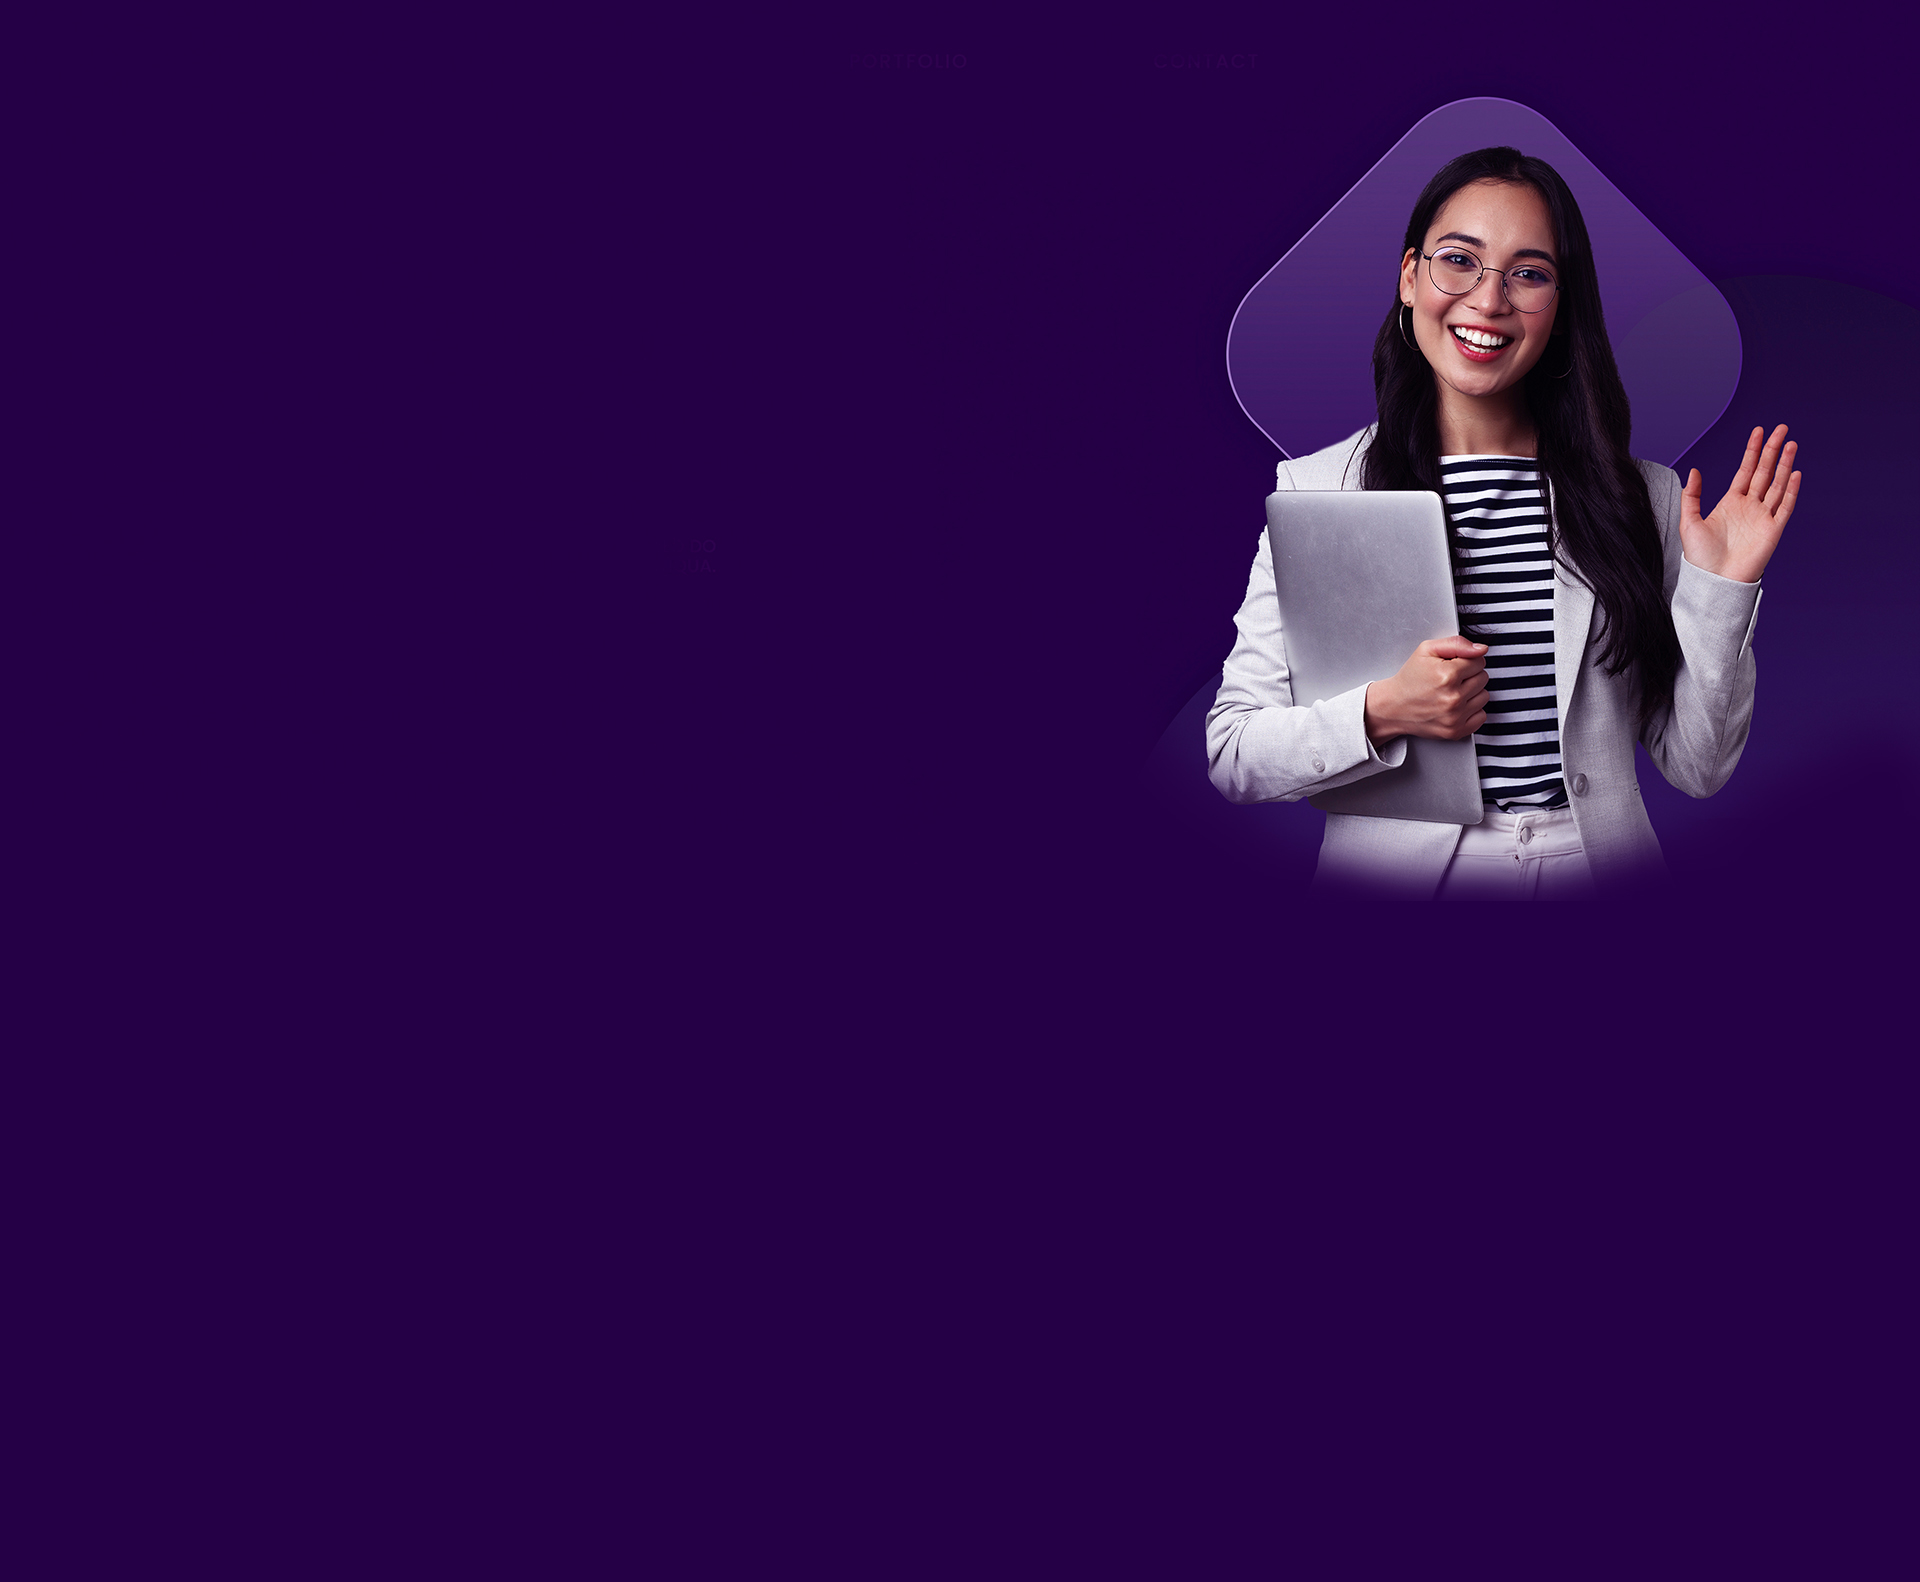
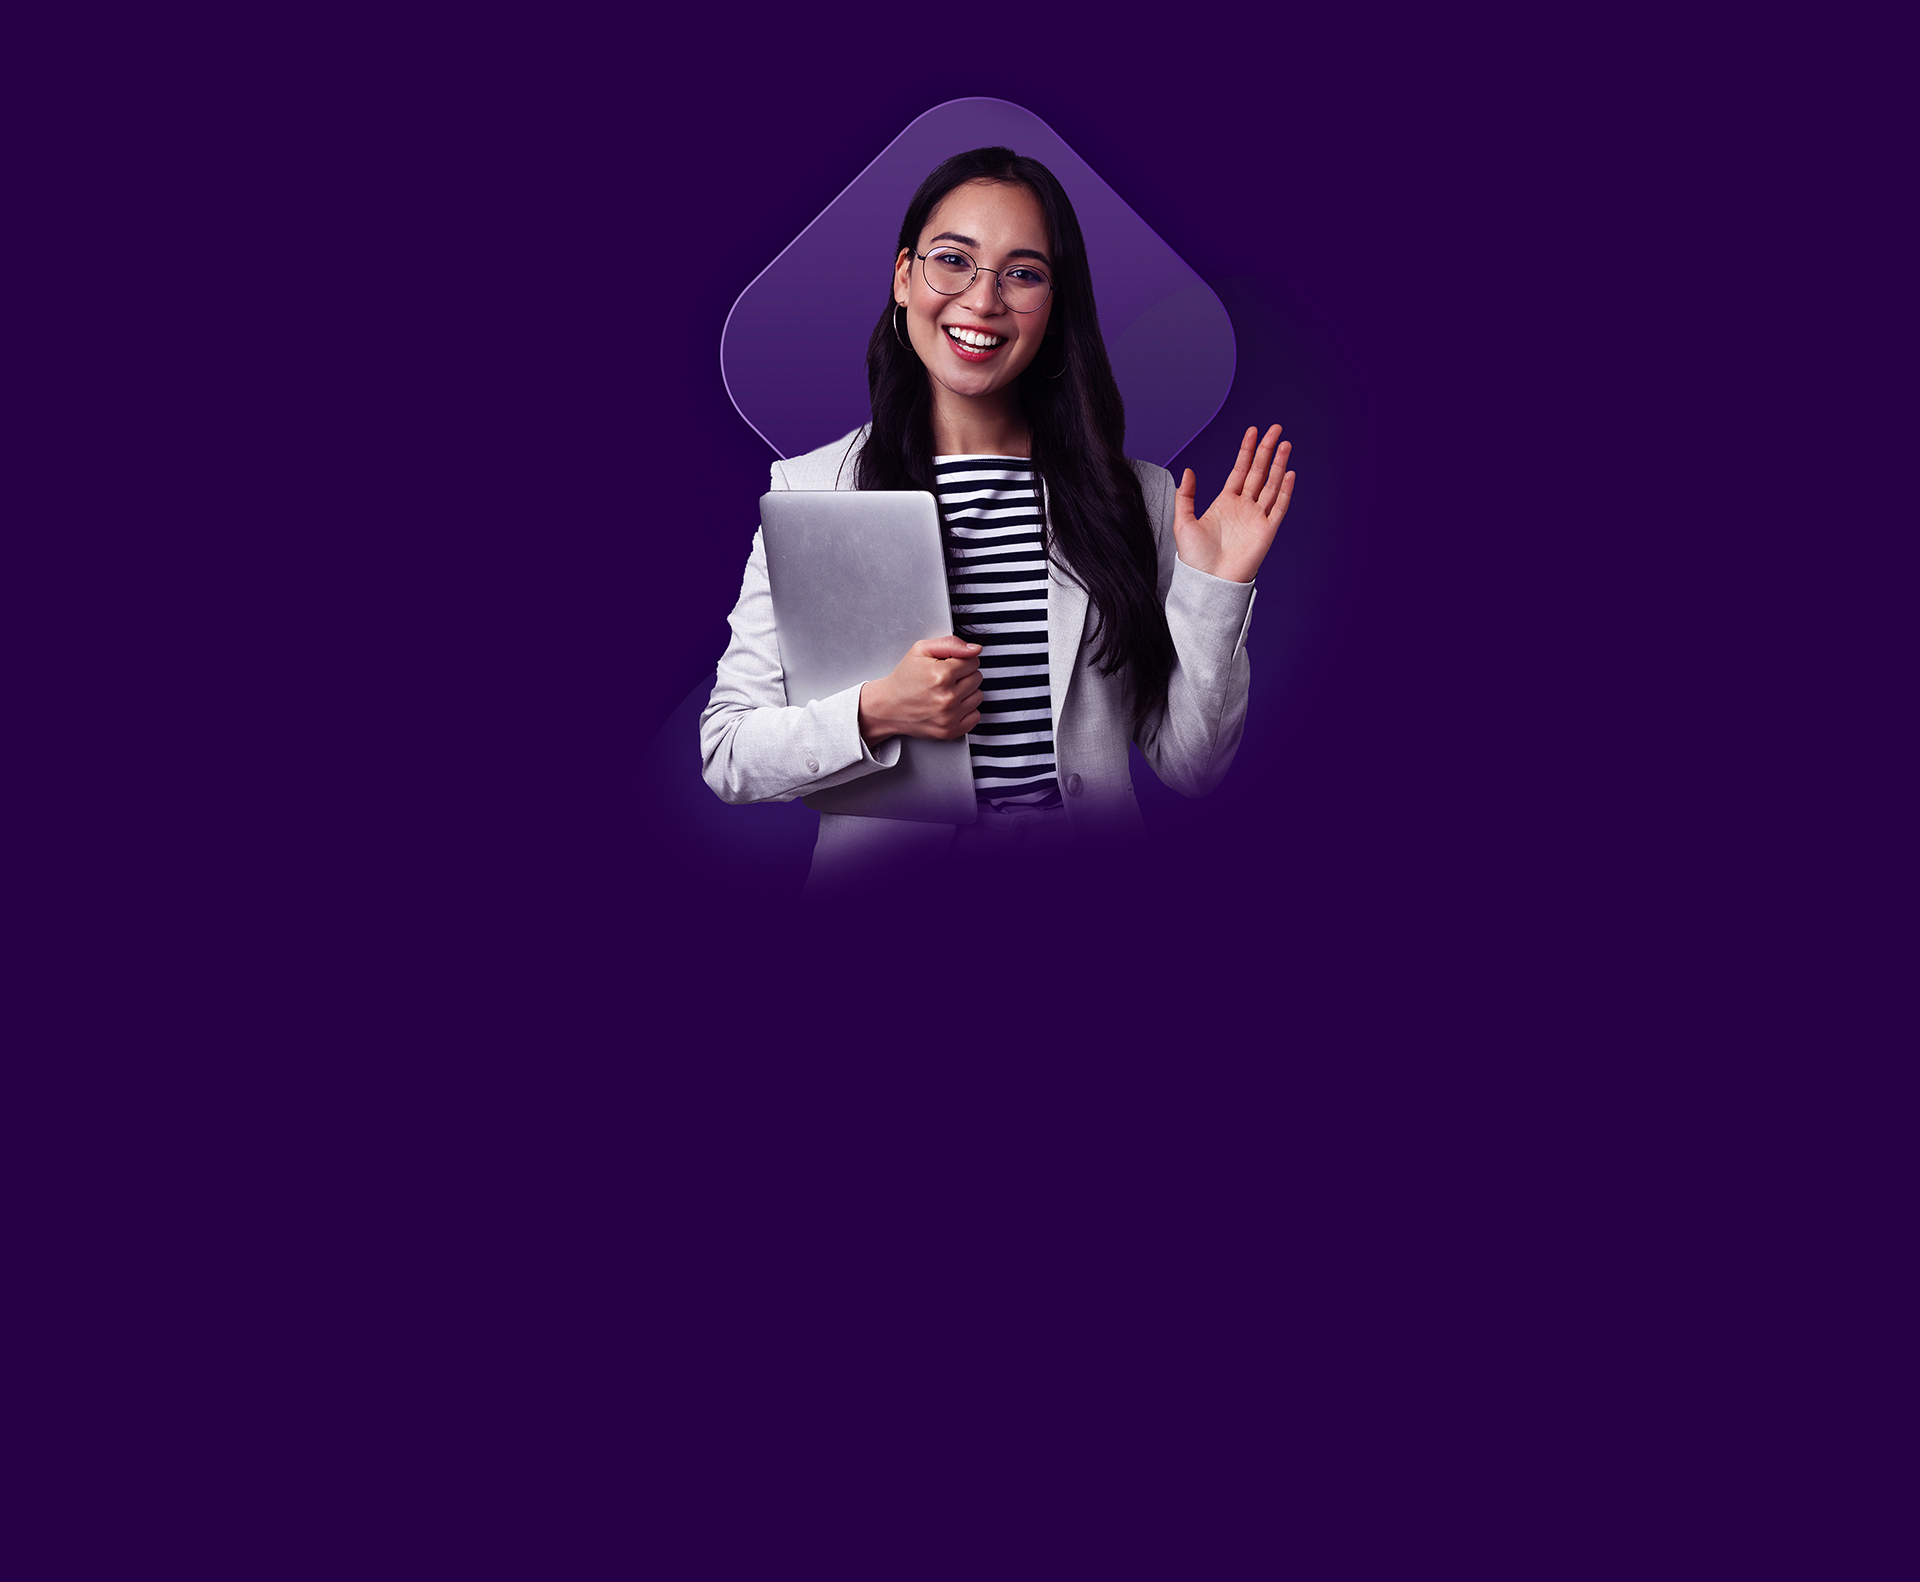
update

Changed region(s): [[0.3438, 0.0619, 0.9375, 0.5885]]

diff --git a/works.html b/works.html
@@ -129,7 +129,7 @@
           <div class="icon-box">
             
 
-            <img src="assets/img/giftbox.png" alt="Description of the image" class="img-fluid" style="width: 50px; height: auto;">
+            <img src="assets/img/marketplace.png" alt="Description of the image" class="img-fluid" style="width: 50px; height: auto;">
          
 
 
@@ -141,7 +141,7 @@
         <div class="col-lg-3 col-md-6 d-flex align-items-stretch mt-4 mt-lg-0" data-aos="fade-up" data-aos-delay="300">
           <div class="icon-box">
             
-            <img src="assets/img/plane.png" alt="Description of the image" class="img-fluid" style="width: 50px; height: auto;">
+            <img src="assets/img/shipping.png" alt="Description of the image" class="img-fluid" style="width: 50px; height: auto;">
 
             <h4><a href="">Shipping</a></h4>
             <p> Ensuring smooth and reliable delivery of orders to customers, providing a positive post-purchase experience.</p>
@@ -151,7 +151,7 @@
         <div class="col-lg-3 col-md-6 d-flex align-items-stretch mt-4 mt-lg-0" data-aos="fade-up" data-aos-delay="300">
             <div class="icon-box">
               
-              <img src="assets/img/plane.png" alt="Description of the image" class="img-fluid" style="width: 50px; height: auto;">
+              <img src="assets/img/return.png" alt="Description of the image" class="img-fluid" style="width: 50px; height: auto;">
   
               <h4><a href="">Return</a></h4>
               <p> Managing and processing product returns efficiently, ensuring customer satisfaction and maintaining trust.</p>
@@ -311,7 +311,7 @@
         <div class="col-lg-3 col-md-6 d-flex align-items-stretch" data-aos="fade-up">
           <div class="icon-box">
             
-            <img src="assets/img/computer-networks.png" alt="Description of the image" class="img-fluid" style="width: 50px; height: auto;">
+            <img src="assets/img/augment.png" alt="Description of the image" class="img-fluid" style="width: 50px; height: auto;">
 
 
             <h4><a href="">Augment with FBA</a></h4>
@@ -324,7 +324,7 @@
           <div class="icon-box">
             
 
-            <img src="assets/img/giftbox.png" alt="Description of the image" class="img-fluid" style="width: 50px; height: auto;">
+            <img src="assets/img/stock.png" alt="Description of the image" class="img-fluid" style="width: 50px; height: auto;">
          
 
 
@@ -336,7 +336,7 @@
         <div class="col-lg-3 col-md-6 d-flex align-items-stretch mt-4 mt-lg-0" data-aos="fade-up" data-aos-delay="300">
           <div class="icon-box">
             
-            <img src="assets/img/plane.png" alt="Description of the image" class="img-fluid" style="width: 50px; height: auto;">
+            <img src="assets/img/shiptrack.png" alt="Description of the image" class="img-fluid" style="width: 50px; height: auto;">
 
             <h4><a href="">Track Shipment</a></h4>
             <p> Monitor shipments in real-time to provide visibility and ensure timely delivery.</p>
@@ -346,9 +346,9 @@
         <div class="col-lg-3 col-md-6 d-flex align-items-stretch mt-4 mt-lg-0" data-aos="fade-up" data-aos-delay="300">
             <div class="icon-box">
               
-              <img src="assets/img/plane.png" alt="Description of the image" class="img-fluid" style="width: 50px; height: auto;">
+              <img src="assets/img/replacement.png" alt="Description of the image" class="img-fluid" style="width: 50px; height: auto;">
   
-              <h4><a href="">Automatic Replacement</a></h4>
+              <h4><a href="">Automatic Replenishment</a></h4>
               <p> Streamline the process of replacing damaged or lost shipments with automated systems.</p>
             </div>
           </div>        

diff --git a/index.html b/index.html
@@ -108,10 +108,10 @@
           <div class="col-lg-4 col-md-6 d-flex align-items-stretch" data-aos="fade-up">
             <div class="icon-box">
               
-              <img src="assets/img/computer-networks.png" alt="Description of the image" class="img-fluid" style="width: 50px; height: auto;">
+              <img src="assets/img/ecommercelising.png" alt="Description of the image" class="img-fluid" style="width: 50px; height: auto;">
 
 
-              <h4><a href="">eCommerce LIsting</a></h4>
+              <h4><a href="">eCommerce Listing</a></h4>
 
               <p>Voluptatum deleniti atque corrupti quos dolores et quas molestias excepturi</p>
             </div>
@@ -121,11 +121,11 @@
             <div class="icon-box">
               
 
-              <img src="assets/img/giftbox.png" alt="Description of the image" class="img-fluid" style="width: 50px; height: auto;">
+              <img src="assets/img/ecommecesolutions.png" alt="Description of the image" class="img-fluid" style="width: 50px; height: auto;">
            
 
 
-              <h4><a href="">Sed ut perspiciatis</a></h4>
+              <h4><a href="">Content Creation Solutions</a></h4>
               <p>Duis aute irure dolor in reprehenderit in voluptate velit esse cillum dolore</p>
             </div>
           </div>
@@ -133,9 +133,9 @@
           <div class="col-lg-4 col-md-6 d-flex align-items-stretch mt-4 mt-lg-0" data-aos="fade-up" data-aos-delay="300">
             <div class="icon-box">
               
-              <img src="assets/img/plane.png" alt="Description of the image" class="img-fluid" style="width: 50px; height: auto;">
+              <img src="assets/img/logistics.png" alt="Description of the image" class="img-fluid" style="width: 50px; height: auto;">
 
-              <h4><a href="">Magni Dolores</a></h4>
+              <h4><a href="">Warehousing Logistics</a></h4>
               <p>Excepteur sint occaecat cupidatat non proident, sunt in culpa qui officia</p>
             </div>
           </div>

diff --git a/assets/css/style.css b/assets/css/style.css
@@ -440,7 +440,7 @@ h6 {
 #hero {
   width: 100%;
   height: calc(100vh - 110px);
-  background: url("../img/hero-bg.jpg") top center;
+  background: url("../img/hero-bg1.jpg") top center;
   background-size: cover;
   position: relative;
 }
@@ -492,17 +492,23 @@ h6 {
 
 @media (min-width: 1024px) {
   #hero {
-    background-attachment: fixed;
+       background-attachment: fixed;
   }
 }
 
 @media (max-width: 768px) {
   #hero {
     text-align: center;
+    
+    width: 100%;
+    height: calc(100vh - 110px);
+    background: url("../img/hero-bg.jpg") top center;
+    background-size: cover;
+    position: relative;
   }
 
   #hero .container {
-    padding-top: 40px;
+    padding-top: 210px;
   }
 
   #hero h1 {

diff --git a/forms/contact.php b/forms/contact.php
@@ -1,0 +1,41 @@
+<?php
+  /**
+  * Requires the "PHP Email Form" library
+  * The "PHP Email Form" library is available only in the pro version of the template
+  * The library should be uploaded to: vendor/php-email-form/php-email-form.php
+  * For more info and help: https://bootstrapmade.com/php-email-form/
+  */
+
+  // Replace contact@example.com with your real receiving email address
+  $receiving_email_address = 'contact@example.com';
+
+  if( file_exists($php_email_form = '../assets/vendor/php-email-form/php-email-form.php' )) {
+    include( $php_email_form );
+  } else {
+    die( 'Unable to load the "PHP Email Form" Library!');
+  }
+
+  $contact = new PHP_Email_Form;
+  $contact->ajax = true;
+  
+  $contact->to = $receiving_email_address;
+  $contact->from_name = $_POST['name'];
+  $contact->from_email = $_POST['email'];
+  $contact->subject = $_POST['subject'];
+
+  // Uncomment below code if you want to use SMTP to send emails. You need to enter your correct SMTP credentials
+  /*
+  $contact->smtp = array(
+    'host' => 'example.com',
+    'username' => 'example',
+    'password' => 'pass',
+    'port' => '587'
+  );
+  */
+
+  $contact->add_message( $_POST['name'], 'From');
+  $contact->add_message( $_POST['email'], 'Email');
+  $contact->add_message( $_POST['message'], 'Message', 10);
+
+  echo $contact->send();
+?>
